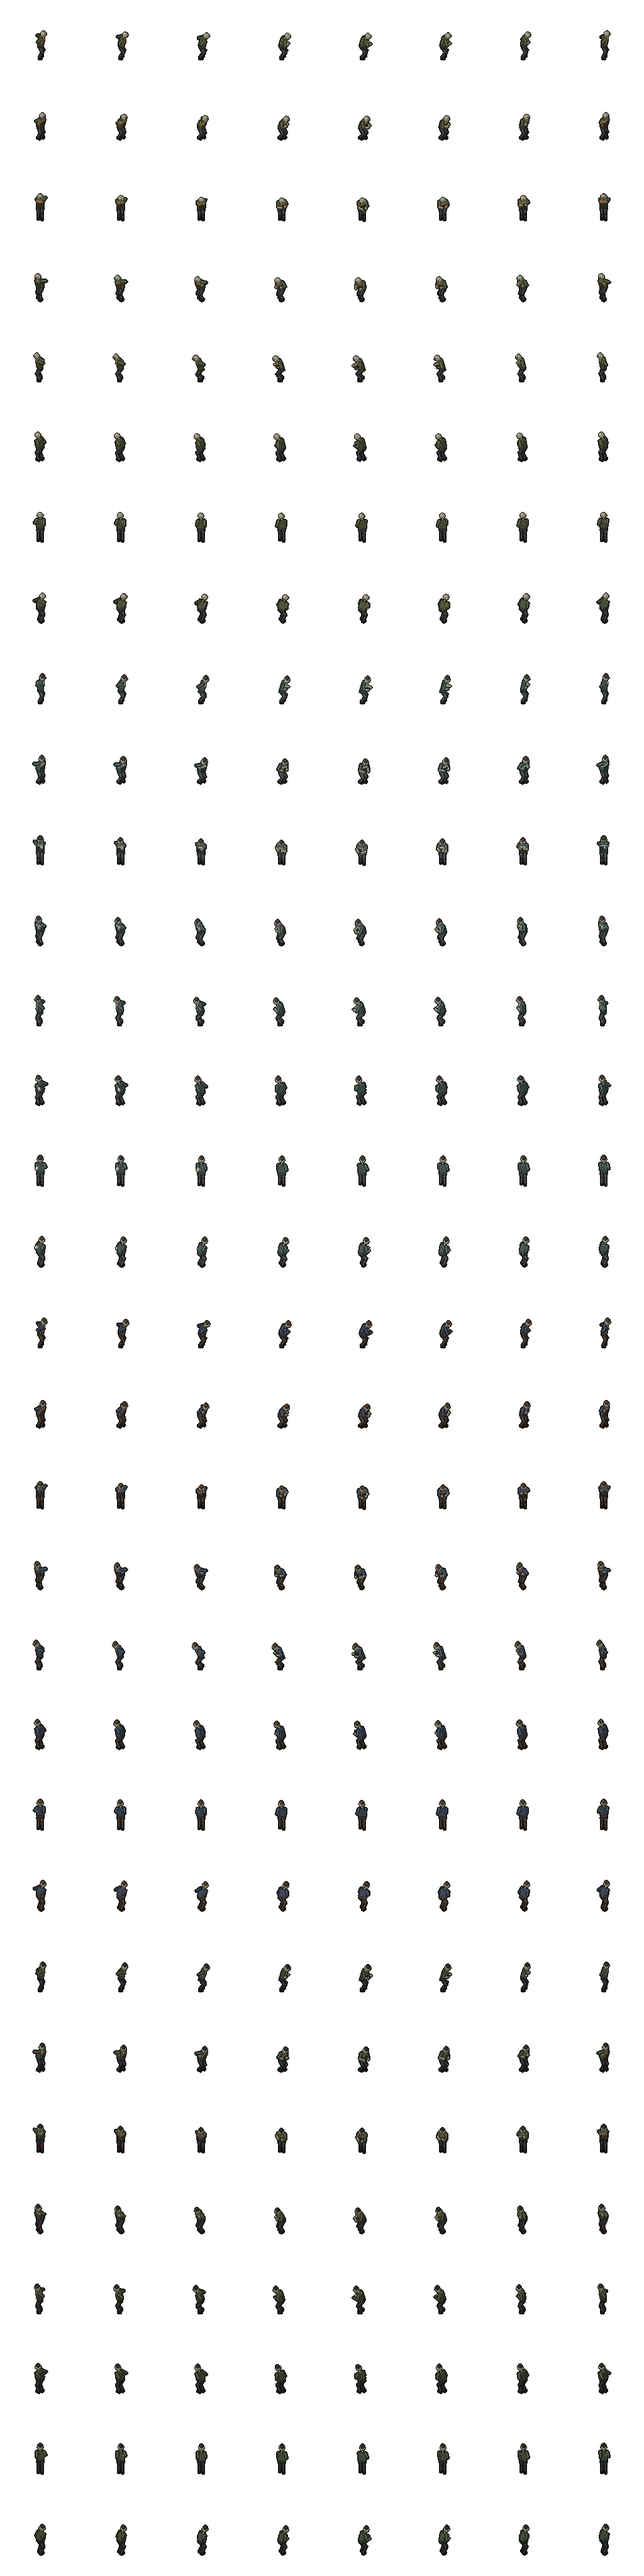
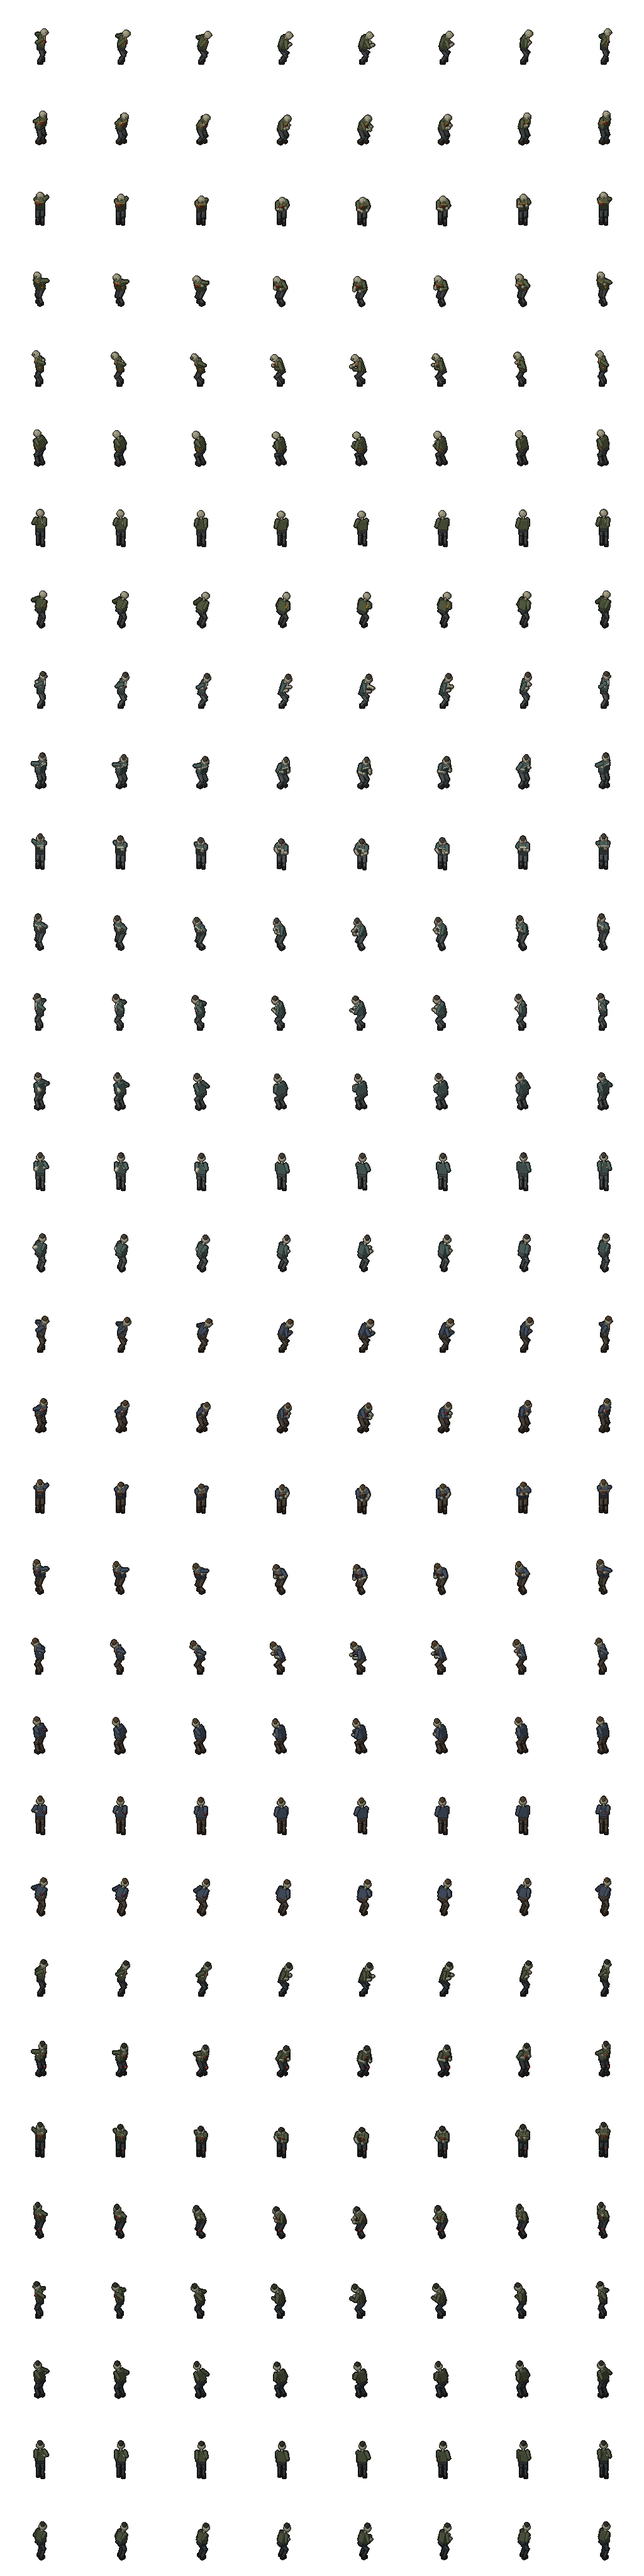
dev56: infected drawn pixel-perfect (1.24x density, scale 0.5) with a heavier dragging limp
Claude-Session: https://claude.ai/code/session_01Q3d652Ep37MrDZiN13QEse

diff --git a/tools/infected3d.py b/tools/infected3d.py
@@ -12,6 +12,13 @@ from PIL import Image
 
 sys.path.insert(0, os.path.dirname(os.path.abspath(__file__)))
 from char3d import Scene, V, norm, CELL, save_png, darker
+import char3d
+
+# 1.38 dev56: drawn at 1.24 px per rig unit and shown at sprite scale 0.5, so a
+# texel is one screen pixel (the old 1x sheets at scale 0.62 showed 1.24 px per
+# texel, unevenly doubled); same world size, feet in the same place
+RENDER_K = 1.24
+char3d.set_density(RENDER_K)
 
 OUT = CELL
 DIRS = 8
@@ -96,15 +103,20 @@ def walk_pose(direction, variant, k):
     for side, off, sg in [('L', 0.0, -1), ('R', math.pi, 1)]:
         s = math.sin(ph + off)
         lift = max(0.0, math.sin(ph + off))
-        amp = base_amp * (0.58 if side == drag_side else 1.0)
-        zlift = (1.1 if side == drag_side else 2.8) * lift
+        # dev56: the bad leg barely leaves the ground - it is hauled forward,
+        # scuffing, while the good one steps high and takes the weight
+        amp = base_amp * (0.5 if side == drag_side else 1.05)
+        zlift = (0.6 if side == drag_side else 3.2) * lift
         # dragging foot trails slightly behind and turns inward visually
-        trail = -1.4 if side == drag_side else 0.0
+        trail = -1.8 if side == drag_side else 0.0
         P.feet[side] = (0.5 + s*amp + trail, 2.9*sg, 3.0 + zlift)
-    P.bob = -0.45*abs(math.sin(ph)) + 0.20*math.sin(ph*2.0)
-    P.shift_r = 0.85*math.sin(ph) * (1 if drag_side == 'L' else -1)
-    P.twist = 0.08*math.sin(ph + math.pi*0.35)
-    P.side_lean = 0.035*math.sin(ph) + (0.025 if drag_side == 'L' else -0.025)
+    # the body drops onto the bad leg when it has to carry it (a lurch), and
+    # rises again over the good one
+    drag_ph = ph + (0.0 if drag_side == 'L' else math.pi)
+    P.bob = -0.35*abs(math.sin(ph)) - 0.55*max(0.0, -math.sin(drag_ph)) + 0.15*math.sin(ph*2.0)
+    P.shift_r = 1.1*math.sin(ph) * (1 if drag_side == 'L' else -1)
+    P.twist = 0.10*math.sin(ph + math.pi*0.35)
+    P.side_lean = 0.05*math.sin(ph) + (0.04 if drag_side == 'L' else -0.04)
     P.head_tilt += 0.045*math.sin(ph*0.5 + variant)
     # arms mostly hang, with unequal swing and occasional clawing reach
     P.hands['L'] = (3.1 + 1.2*math.sin(ph+math.pi), -5.6, 5.7 + 0.5*math.cos(ph))

diff --git a/README_1380_DEV1_WORLD_HD.md b/README_1380_DEV1_WORLD_HD.md
@@ -968,3 +968,14 @@ The 18 long-standing failures were stale tests, not broken gameplay:
 `test_long_session_chunk_churn_131` stays timing-sensitive under the parallel
 runner; standalone it passes, and the pre-dev47 build is as slow on this
 machine (the host got slower, not the game).
+
+## dev56 — crisp infected with a heavier limp
+
+- Same fix as the survivor: `tools/infected3d.py` renders at density 1.24
+  and the game shows the sheets at `INFECTED_SPRITE_SCALE` = 0.5 (was 0.62
+  of 1x sheets = 1.24 screen px per texel). One texel = one screen pixel,
+  same world size, the feet still on the shadow; walk, attack, idle stances
+  and the corpses (built from the walk sheet) all follow.
+- The shamble reads stronger: the bad leg barely leaves the ground and trails
+  further behind, the good leg steps higher, and the body lurches down onto
+  the bad leg each time it has to carry it, leaning harder to that side.
